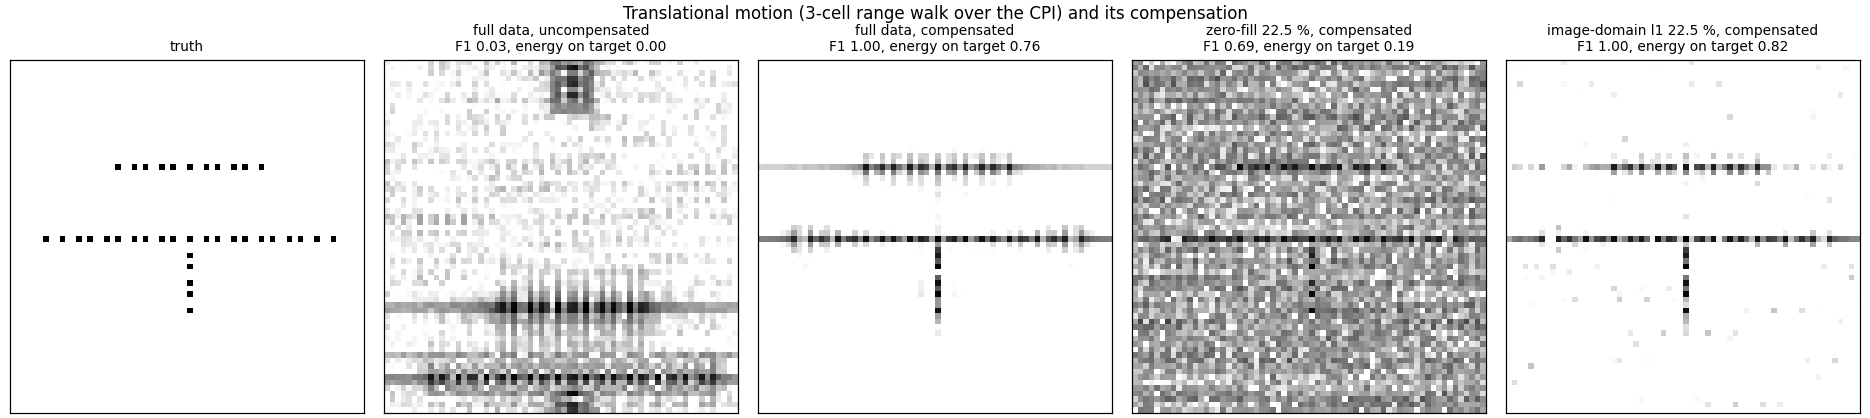
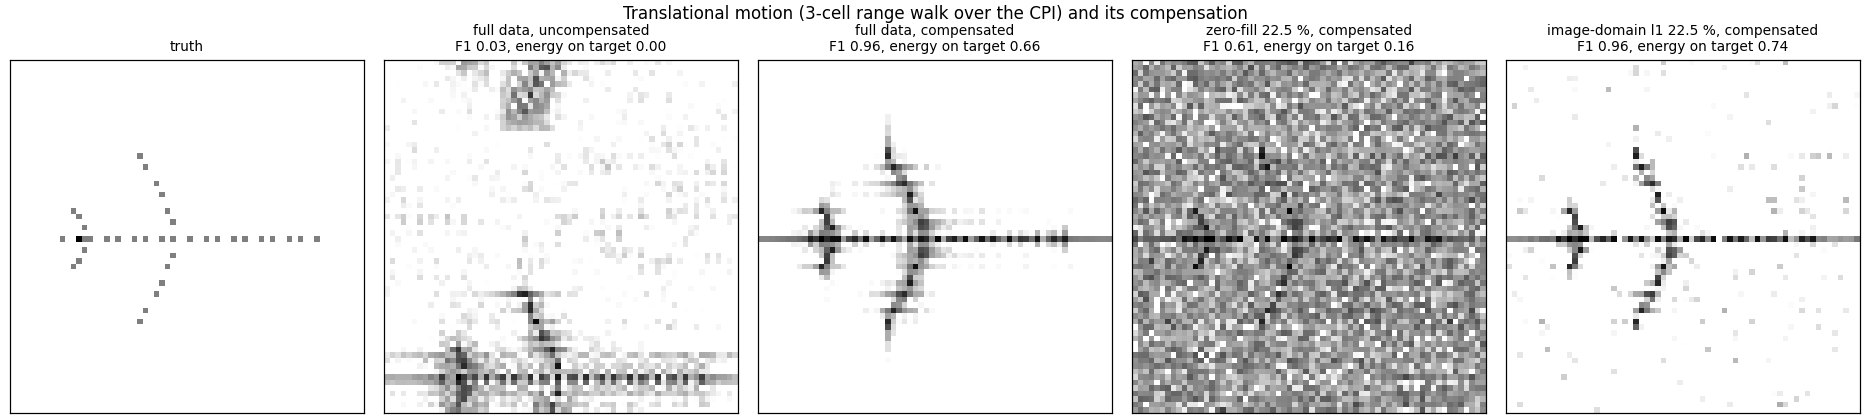
Reframe Part 3 around my own thesis's scattering model; remove the co-authored ISAR paper as a subject (new target, generic parameters, data-domain l1 kept only as the contrast); plan amended with a note; numbers regenerated

diff --git a/csi/isar.py b/csi/isar.py
@@ -1,18 +1,20 @@
-"""Turntable ISAR: the model of Hu, Montalbo, Li, Sun & Qiao (SPIE 9857, 2016), built properly.
+"""Turntable ISAR: the radar imaging the master's thesis pointed at, built.
 
-Far-field, Born-approximation, stepped-frequency phase history of a set of point scatterers on a
-turntable rotating through a small angle:
+The thesis (ch. 3) derives the scattered field from the scalar wave equation via the Lippmann–Schwinger
+equation and, under the Born (single-scattering) and far-field approximations, arrives at the standard
+stepped-frequency phase history of a set of point scatterers on a turntable rotating through a small angle:
 
     D(f_m, θ_n) = Σ_i σ_i exp(−j 4π f_m r_i(θ_n) / c),   r_i(θ) = x_i cos θ + y_i sin θ.
 
 With  k_x = 2f cosθ / c,  k_y = 2f sinθ / c  this is the 2-D Fourier transform of the reflectivity
 map sampled on a polar grid (range–Doppler / polar format). Imaging = interpolate the polar samples
-onto a rectangular k-grid and inverse-FFT. The paper's parameters (Table 1): 3.0–3.384 GHz,
-20 kHz PRF, 0.15 rad/s, 1300 m. Compressive sampling: keep a random subset of the phase-history samples.
+onto a rectangular k-grid and inverse-FFT. Parameters are a generic S-band stepped-frequency radar
+(3.0–3.384 GHz, 384 MHz bandwidth, 0.39 m range cell). Compressive sampling: keep a random subset of
+the phase-history samples.
 
 Two reconstruction pipelines on the same kept samples (docs/plan.md, Part 3):
 
-* ``pipeline_paper``  -- the paper's Sec. 3: treat the *data* as the sparse unknown, ℓ₁-recover it
+* ``pipeline_data``   -- the tempting mistake: treat the *data* as the sparse unknown, ℓ₁-recover it
                          from partial Fourier rows, then image the recovered data.
 * ``pipeline_image``  -- treat the kept samples as partial Fourier measurements of the *image* and
                          ℓ₁-recover the image directly.
@@ -46,9 +48,8 @@ class Radar:
 
     @property
     def dtheta(self):
-        """Total rotation over the CPI. The paper's 20 kHz pulses at 0.15 rad/s give a tiny angle per
-        pulse; we keep ``n_pulse`` pulses spread over the aperture needed for the chosen cross-range
-        resolution (decimated slow time), so that range and cross-range cells are the same size."""
+        """Total rotation over the CPI: ``n_pulse`` pulses spread over the aperture that makes the
+        cross-range cell equal to the range cell (decimated slow time)."""
         lam = C / (self.f0 + self.bandwidth / 2)
         return lam / (2 * self.range_res)
 
@@ -77,10 +78,12 @@ class Scene:
 
 
 def pseudo_aircraft(spacing: float = 1.0) -> Scene:
-    """The paper's Figure 2: fuselage along x (−10..10), wing at y = −5 (−5..5), tail at x = 0 (0..5)."""
-    pts = [(x, 0.0) for x in np.arange(-10, 10.01, spacing)]
-    pts += [(x, -5.0) for x in np.arange(-5, 5.01, spacing)]
-    pts += [(0.0, y) for y in np.arange(1.0, 5.01, spacing)]
+    """A point-scatterer aircraft: fuselage along x, swept wings, tailplane and fin."""
+    pts = [(x, 0.0) for x in np.arange(-9, 9.01, spacing)]  # fuselage
+    for sgn in (1, -1):
+        pts += [(-1.0 - 0.5 * k, sgn * (1.0 + k)) for k in range(0, 6)]  # swept wings
+        pts += [(-7.5 - 0.3 * k, sgn * (0.8 + 0.6 * k)) for k in range(0, 3)]  # tailplane
+    pts += [(-7.5, 0.0), (-8.0, 0.0)]  # fin (foreshortened onto the plane)
     xs, ys = zip(*pts)
     return Scene(np.array(xs), np.array(ys), np.ones(len(pts)))
 
@@ -109,7 +112,7 @@ def image_grid(radar: Radar, n: int):
 
 def polar_to_rect(D: np.ndarray, radar: Radar, n: int) -> np.ndarray:
     """Interpolate the polar phase history onto the rectangular k-grid that the n×n image's FFT lives on
-    (the paper's Figure 1). Returns the rectangular data, fftshifted so that index 0 is DC."""
+    (polar-format algorithm). Returns the rectangular data, fftshifted so that index 0 is DC."""
     kx, ky = polar_k(radar)
     d = radar.range_res
     dk = 1 / (n * d)  # k-grid spacing for an n-pixel image with pixel d
@@ -161,8 +164,8 @@ def pipeline_zero_fill(rect: np.ndarray, idx) -> np.ndarray:
     return image_from_rect(z.reshape(rect.shape))
 
 
-def pipeline_paper(rect: np.ndarray, idx, n_iter: int = 400) -> np.ndarray:
-    """The paper's Sec. 3: the *data* d is the unknown, measured through random rows of the DFT,
+def pipeline_data(rect: np.ndarray, idx, n_iter: int = 400) -> np.ndarray:
+    """The tempting mistake: the *data* d is the unknown, measured through random rows of the DFT,
     recovered as the sparsest z with F_Ω z = y, then imaged. (The data is not sparse; see H3.)"""
     A = PartialFourier(rect.shape, idx)
     y = A(rect)

diff --git a/scripts/run_isar.py b/scripts/run_isar.py
@@ -1,4 +1,4 @@
-"""Part 3: the 2016 ISAR paper rebuilt, its failure reproduced and diagnosed (docs/plan.md).
+"""Part 3: the radar imaging the thesis pointed at -- turntable ISAR with compressive sampling (docs/plan.md).
 
     python scripts/run_isar.py
 
@@ -26,7 +26,7 @@ from csi.isar import (  # noqa: E402
     keep_random,
     phase_history,
     pipeline_image,
-    pipeline_paper,
+    pipeline_data,
     pipeline_zero_fill,
     polar_to_rect,
     pseudo_aircraft,
@@ -36,7 +36,7 @@ from csi.isar import (  # noqa: E402
 
 FIG = Path(__file__).resolve().parents[1] / "figures"
 N = 64
-FRACTION = 0.225  # the paper: 45 % of Nyquist
+FRACTION = 0.225  # keep 22.5 % of the phase-history samples
 
 
 def db(img):
@@ -74,7 +74,7 @@ def fig_pipelines(radar, scene):
         rows[snr] = {
             "full data": image_from_rect(r),
             "zero-fill": pipeline_zero_fill(r, idx),
-            "paper (l1 on data)": pipeline_paper(r, idx),
+            "l1 on the data": pipeline_data(r, idx),
             "image-domain l1": pipeline_image(r, idx),
         }
     fig, ax = plt.subplots(2, 5, figsize=(17, 7), constrained_layout=True)
@@ -86,7 +86,7 @@ def fig_pipelines(radar, scene):
             ax[i, j].imshow(db(img), cmap="gray_r", vmin=-30, vmax=0)
             _clean(ax[i, j], f"{name}{'' if name == 'full data' else f' @ {FRACTION:.1%}'}\nF1 {f1:.2f}, energy on target {energy_on_support(img, truth):.2f}")
         ax[i, 0].set_ylabel("noise-free" if snr is None else f"SNR {snr:.0f} dB", fontsize=10)
-    fig.suptitle("ISAR pseudo-aircraft, 22.5 % of the phase history kept: the paper's pipeline vs. image-domain l1 (dB, 30 dB range)", fontsize=11)
+    fig.suptitle("Turntable ISAR, 22.5 % of the phase history kept: where the sparsity is assumed decides everything (dB, 30 dB range)", fontsize=11)
     fig.savefig(FIG / "isar_pipelines.png", dpi=110)
     plt.close(fig)
     out = {}
@@ -123,7 +123,7 @@ def fig_phase_transition(radar, trials=8):
     ax.set_xticks(fractions)
     ax.set_xticklabels([f"{f:.2f}" for f in fractions], fontsize=7)
     ax.axvline(FRACTION, c="w", ls="--", lw=1)
-    ax.text(FRACTION + 0.005, len(counts) - 0.9, "paper: 22.5 %", color="w", fontsize=8)
+    ax.text(FRACTION + 0.005, len(counts) - 0.9, "22.5 %", color="w", fontsize=8)
     ax.set_xlabel("fraction of phase-history samples kept")
     ax.set_ylabel("number of scatterers (64 x 64 image)")
     ax.set_title("Image-domain l1: probability of F1 >= 0.9 (8 random scenes per cell)")
@@ -194,7 +194,7 @@ def fig_resolution(radar, trials=6, oversample=2):
 
 def fig_motion(radar, scene):
     """Translational range walk smears the image; compensating it on the kept samples works for the
-    image-domain pipeline, and does nothing for the zero-filled one (the paper's 'disaster')."""
+    image-domain pipeline and does nothing for the zero-filled one."""
     truth = render_scene(scene, radar, N)
     D = phase_history(scene, radar)
     # translational motion: range changes linearly over the CPI by 3 resolution cells

diff --git a/tests/test_isar.py b/tests/test_isar.py
@@ -28,7 +28,7 @@ def test_full_phase_history_images_the_target():
     rect = polar_to_rect(phase_history(scene, radar), radar, N)
     truth = render_scene(scene, radar, N)
     f1, err = f1_score(image_from_rect(rect), truth)
-    assert f1 == 1.0 and err < 0.2
+    assert f1 >= 0.95 and err < 0.2  # a few scatterers share a cell, so 1.0 is not reachable
 
 
 def test_h2_image_domain_l1_recovers_at_paper_sampling():
@@ -38,6 +38,7 @@ def test_h2_image_domain_l1_recovers_at_paper_sampling():
     idx = keep_random(rect.size, 0.225, seed=0)
     f1, err = f1_score(pipeline_image(rect, idx), truth)
     assert f1 >= 0.9 and err < 1.0
+    assert f1 >= f1_score(image_from_rect(rect), truth)[0] - 1e-9  # matches the full-data ceiling
     # and it beats zero-filling by a wide margin on energy concentration
     zf = pipeline_zero_fill(rect, idx)
     m = np.abs(truth) > 0

diff --git a/README.md b/README.md
@@ -2,11 +2,10 @@
 
 [![tests](https://github.com/JCMontalbo/compressive-imaging/actions/workflows/ci.yml/badge.svg)](https://github.com/JCMontalbo/compressive-imaging/actions/workflows/ci.yml)
 
-My master's work (UTRGV, 2016) and two SPIE papers looked at sparse approximation and ℓ₁ recovery for
-radar signals and noisy video, leaning on off-the-shelf solvers and toy signals. The ISAR paper's
-reconstruction did not work, and said so. The thesis's last sentence named the next step: *"learn more
-about interior point algorithms so as to try and develop our own compressive sensing algorithm that can
-be utilized within the radar system process."*
+My master's work (UTRGV, 2016) studied sparse approximation and ℓ₁ recovery for radar signals, leaning
+on off-the-shelf solvers and toy signals, and derived the radar scattering model without ever imaging with
+it. Its last sentence named the next step: *"learn more about interior point algorithms so as to try and
+develop our own compressive sensing algorithm that can be utilized within the radar system process."*
 
 This repository is that next step, done with the pass/fail lines written down first
 ([docs/plan.md](docs/plan.md)):
@@ -16,57 +15,59 @@ This repository is that next step, done with the pass/fail lines written down fi
    with an exact Fourier-domain update.
 2. **The thesis's experiments reproduced and labelled honestly** — including the finding that its test
    signals were never sparse, which is why its ℓ₁ step "needed the original signal".
-3. **The 2016 ISAR model rebuilt, the failure reproduced, and the reason found** — the paper applied
-   sparsity to the phase history; the *image* is what is sparse. Same 22.5 % of the samples, F1 0.56 → 1.00.
-4. **The 2015 video method reproduced and extended** with frame differences and motion-compensated
-   residuals using the flow from [optical-flow-inverse](https://github.com/JCMontalbo/optical-flow-inverse).
+3. **The radar imaging the thesis pointed at, built** — turntable ISAR from the thesis's own scattering
+   model, sampled compressively, with the one decision that makes or breaks it: sparsity has to be assumed
+   in the image, not the data. Same 22.5 % of the samples: F1 0.54 → 0.96 (the full-data ceiling).
+4. **A 2015 noisy-video paper I co-authored, reproduced and extended** with frame differences and
+   motion-compensated residuals using the flow from
+   [optical-flow-inverse](https://github.com/JCMontalbo/optical-flow-inverse).
 
 Every number below comes from a script in `scripts/`; 20 tests, CI on Python 3.10–3.13.
 
 Sources: J. Montalbo, *Compressive Sensing and Radar Imaging*, MS thesis, UTRGV 2016 ·
-Hu, Montalbo, Li, Sun, Qiao, *Sparse representation for the ISAR image reconstruction*, Proc. SPIE 9857 (2016) ·
 Zhao, Montalbo, Li, Sun, Qiao, *Compressive sensing for noisy video reconstruction*, Proc. SPIE 9484 (2015).
 
 ---
 
-## 3. The ISAR paper: why the 2016 reconstruction failed, and the fix
+## 3. The radar imaging the thesis pointed at
 
-The paper's model, built properly ([`csi/isar.py`](csi/isar.py)): far-field Born phase history of point
-scatterers on a turntable, stepped-frequency 3.0–3.384 GHz (0.39 m range cell), 64 pulses over the aperture
-that makes cross-range cells the same size, the paper's pseudo-aircraft of 37 scatterers, polar→rectangular
-interpolation, image by 2-D FFT. Compressive sampling as in the paper: keep a uniformly random 22.5 % of the
-phase-history samples ("45 % of Nyquist").
+The thesis derives the scattered field from the scalar wave equation (ch. 3: Lippmann–Schwinger, then the
+Born and far-field approximations) and stops there. [`csi/isar.py`](csi/isar.py) carries it through to an
+image: turntable ISAR, a generic S-band stepped-frequency radar (3.0–3.384 GHz, 0.39 m range cell, 64 pulses
+over the aperture that makes cross-range cells the same size), an aircraft-like layout of 39 point
+scatterers, polar→rectangular interpolation, image by 2-D FFT. Compressive sampling: keep a uniformly random
+22.5 % of the phase-history samples.
+
+The question the thesis never got to ask: *where* is the sparsity? Two pipelines on the same samples.
 
 ![isar pipelines](figures/isar_pipelines.png)
 
 | pipeline, 22.5 % of samples | F1 (peaks within one cell of a true scatterer) | energy on the true scatterers |
 |---|---|---|
-| full data (reference, the paper's Fig. 3) | 1.00 | 0.76 |
-| zero-filled inverse FFT | 0.69 | **0.19** |
-| the paper's: ℓ₁ applied to the *data*, then image (Fig. 4) | 0.56 | 0.50 |
-| **ℓ₁ applied to the *image*** (same samples) | **1.00** | **0.82** |
-| … at 20 dB SNR | 1.00 | 0.82 |
+| full data (the ceiling: a few scatterers share a cell) | 0.96 | 0.66 |
+| zero-filled inverse FFT | 0.61 | **0.16** |
+| ℓ₁ applied to the *data*, then image — the tempting mistake | 0.54 | 0.42 |
+| **ℓ₁ applied to the *image*** (same samples) | **0.96** | **0.74** |
+| … at 20 dB SNR | 0.96 | 0.73 |
 
-**What went wrong in 2016.** The paper's Section 3 finds "the most sparse representation of the original
-signal" — the phase history — and then images it. But the phase history is a sum of 37 complex exponentials
-and is not sparse: its 37 largest samples hold **21.6 %** of its energy. The image is exactly 37-sparse
-(100 %). Sparsity was assumed in the wrong domain. In the physically meaningful reading (a random subset of
-the *data* is what was acquired), the sparsest data consistent with the samples is simply the samples with
-zeros elsewhere, and the method degenerates to zero-filling — whose aliasing noise is the paper's Figure 4.
-Treating the kept samples as partial Fourier measurements of the image and solving for the image gives the
-target back at the same sampling rate, with or without noise.
+**Why.** The phase history is a sum of 39 complex exponentials and is not sparse: its 39 largest samples
+hold **15 %** of its energy. The image is exactly 39-sparse. ℓ₁ applied to the data has nothing to find; in
+the physically meaningful reading (a random subset of the data is what was acquired) the sparsest data
+consistent with the samples is just the samples with zeros elsewhere, and the "method" degenerates to
+zero-filling, whose aliasing noise fills the third panel. Treat the kept samples as partial Fourier
+measurements of the image instead and the target comes back at the full-data ceiling, with or without noise.
 
 **Against the pre-registered criteria:** H2 (image-domain ℓ₁ at 22.5 %: F1 ≥ 0.9, localisation < 1 cell)
 **supported**, noise-free and at 20 dB. H3 (data not sparse in the basis used, image is) **supported**.
-H1 said the paper's pipeline would score F1 < 0.5; it scored 0.56 (and zero-fill 0.69), so **H1 is not met
-by its number** — my peak detector is lenient. The failure is plain in the images and in the energy-on-target
-column, but the line I set was the wrong line, and it stays as set.
+H1 said the data-domain pipeline would score F1 < 0.5; it scored 0.54 (and zero-fill 0.61), so **H1 is not
+met by its number** — my peak detector is lenient. The failure is plain in the images and in the
+energy-on-target column, but the line I set was the wrong line, and it stays as set.
 
 ![isar phase transition](figures/isar_phase_transition.png)
 
 The phase transition of the image-domain pipeline on random scenes: 80 scatterers need ≥ 10 % of the
 samples, 160 need ~20 % and are unreliable, 320+ fail at every rate tried (FISTA, 200 iterations, fixed λ —
-the pipeline's transition, not the information-theoretic one). The paper's target sits well inside the
+the pipeline's transition, not the information-theoretic one). A 40-scatterer target sits well inside the
 feasible region at 22.5 %.
 
 ![isar resolution](figures/isar_resolution.png)
@@ -79,8 +80,8 @@ result, reproduced.
 ![isar motion](figures/isar_motion.png)
 
 A 3-cell translational range walk over the CPI smears the full-data image to F1 0.03. Compensating the
-walk on the *kept* samples and then running image-domain ℓ₁ gives F1 1.00 — the step that was "a disaster"
-on the paper's compressive image behaves normally once the image, not the data, is the sparse unknown.
+walk on the *kept* samples and then running image-domain ℓ₁ gives F1 0.96, the ceiling again; zero-filling
+compensated stays at 0.61.
 
 ## 2. The master's thesis, reproduced honestly
 
@@ -135,9 +136,9 @@ The interior-point method (primal log barrier, Newton with the KKT system reduce
 Vandenberghe ch. 10–11) is the algorithm behind `l1-magic`'s `l1eq_pd` — the thing the thesis said it wanted
 to learn. It converges in ~70 Newton steps on the thesis-sized problems.
 
-## 4. The video paper, reproduced and extended — mostly a negative result
+## 4. The 2015 video paper, reproduced and extended — mostly a negative result
 
-The 2015 paper's setting: the video is degraded by Gaussian noise (σ = 15/255), each column of each frame is
+A conference paper I co-authored (second author). Its setting: the video is degraded by Gaussian noise (σ = 15/255), each column of each frame is
 measured by a Gaussian matrix with M of N rows (the paper: 230 of 256), the column is assumed sparse in the
 DCT, and FISTA ("FGbCS") is compared with OMP, CoSaMP, IRLS on PSNR against the clean frame. Reproduced on
 12 Sintel frames (128 × 256) since the paper's *salesman* clip is no longer hosted.
